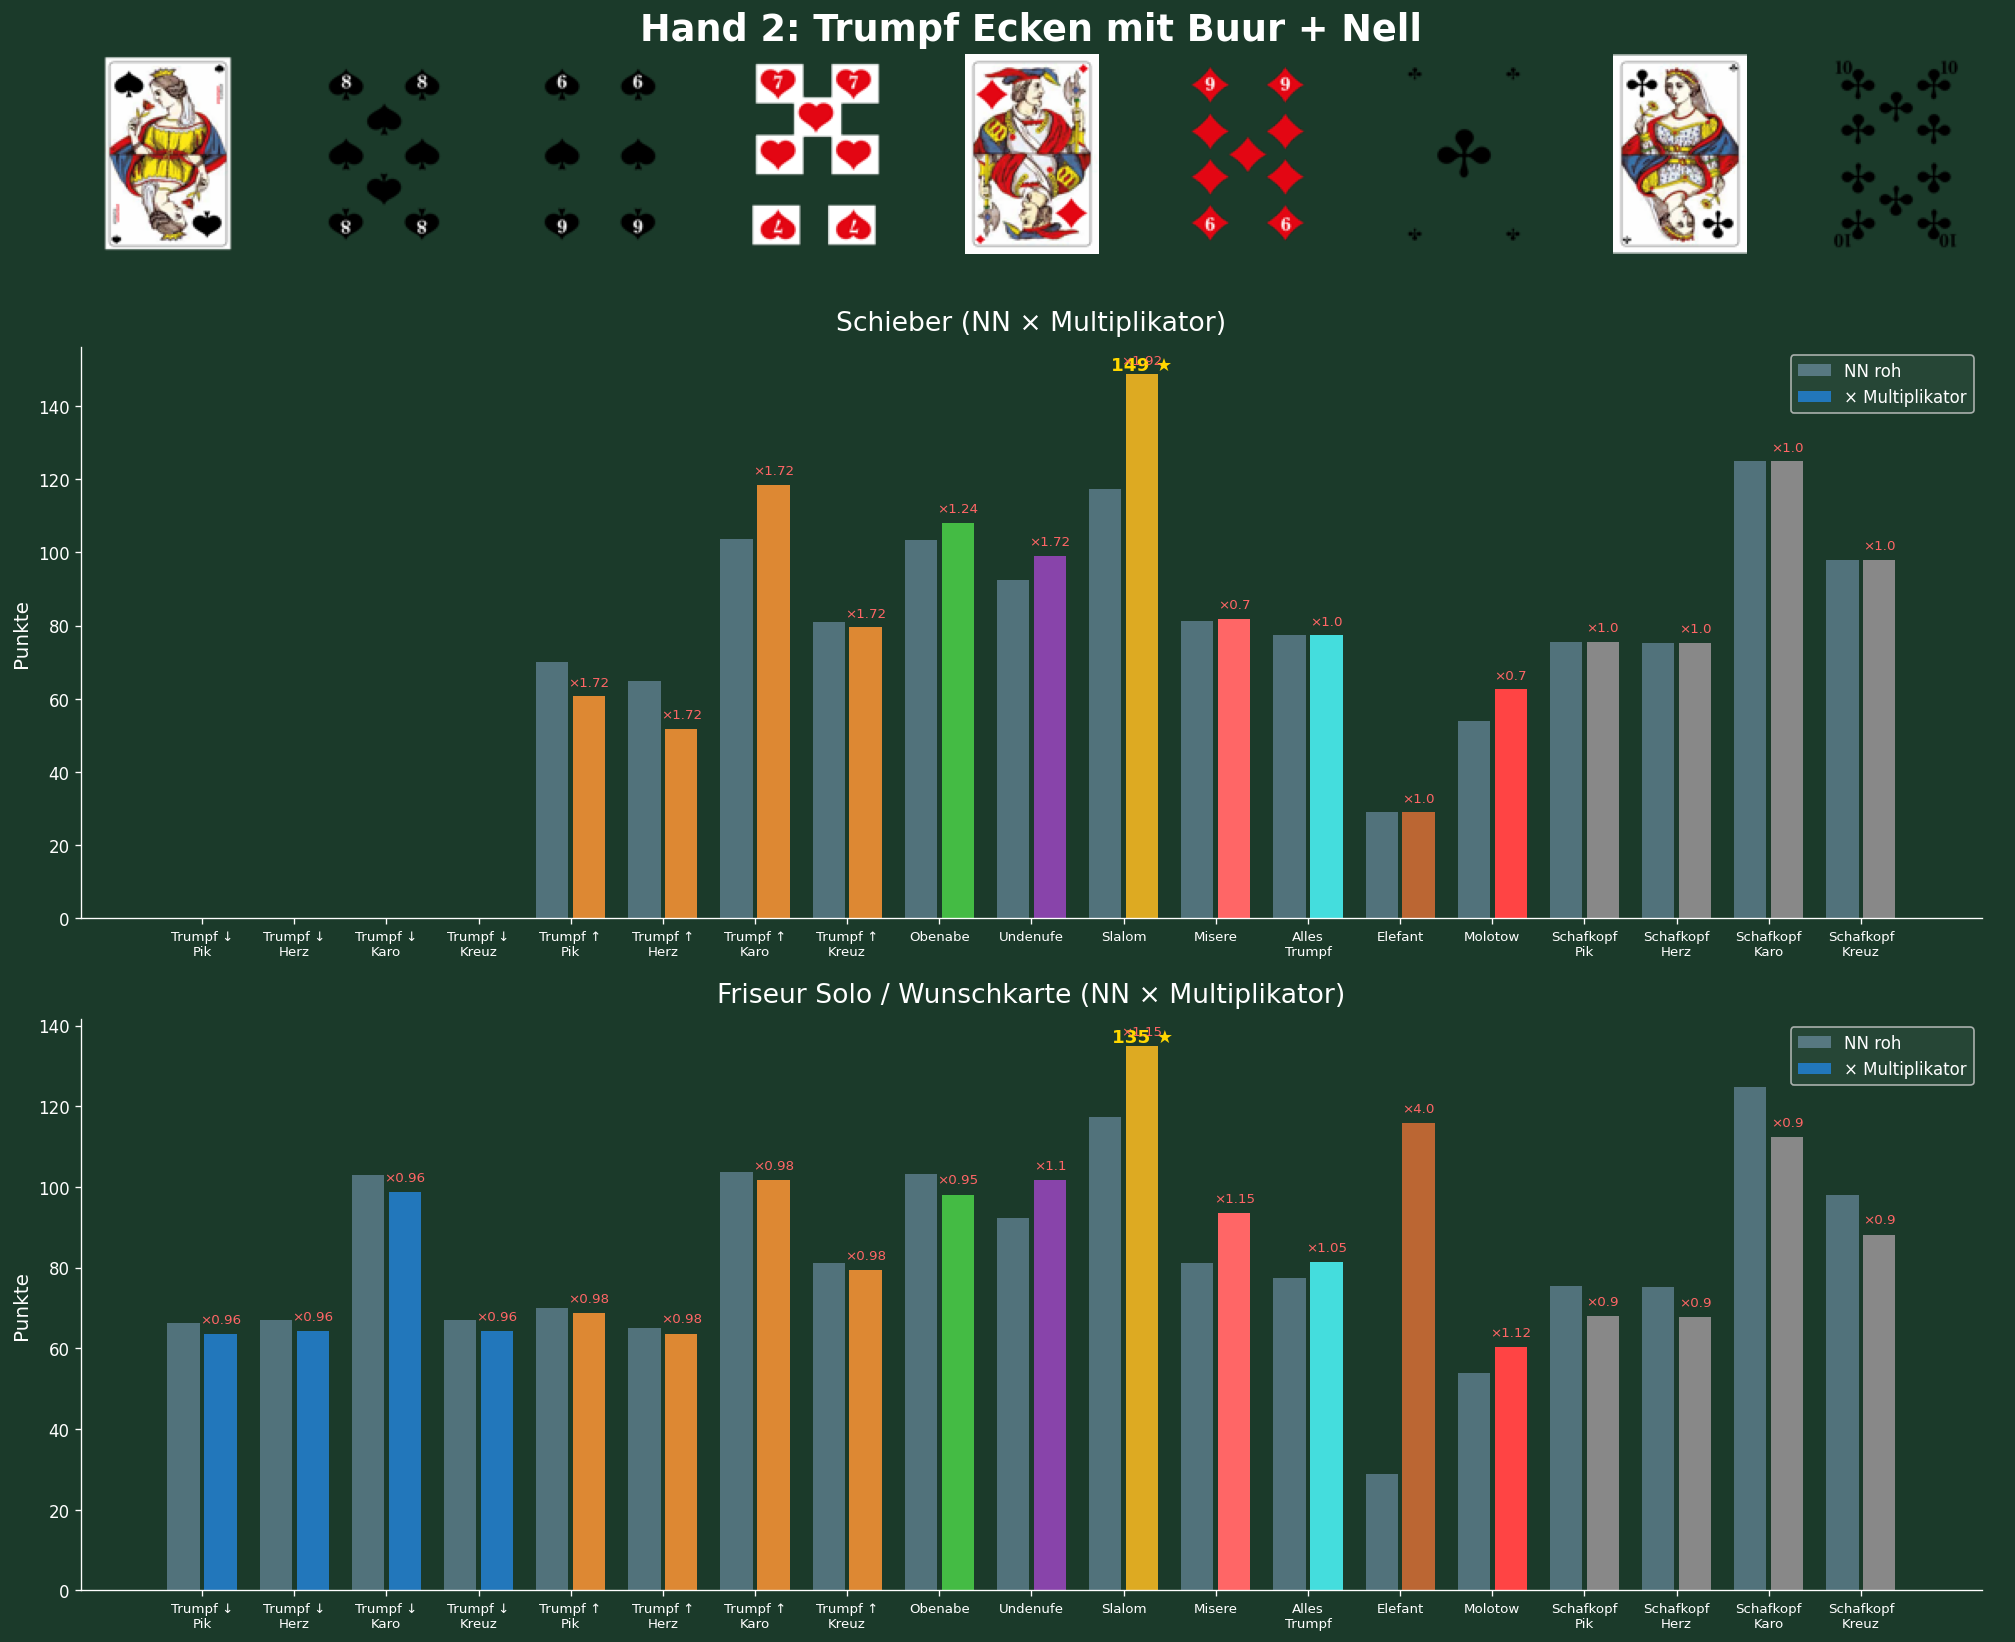
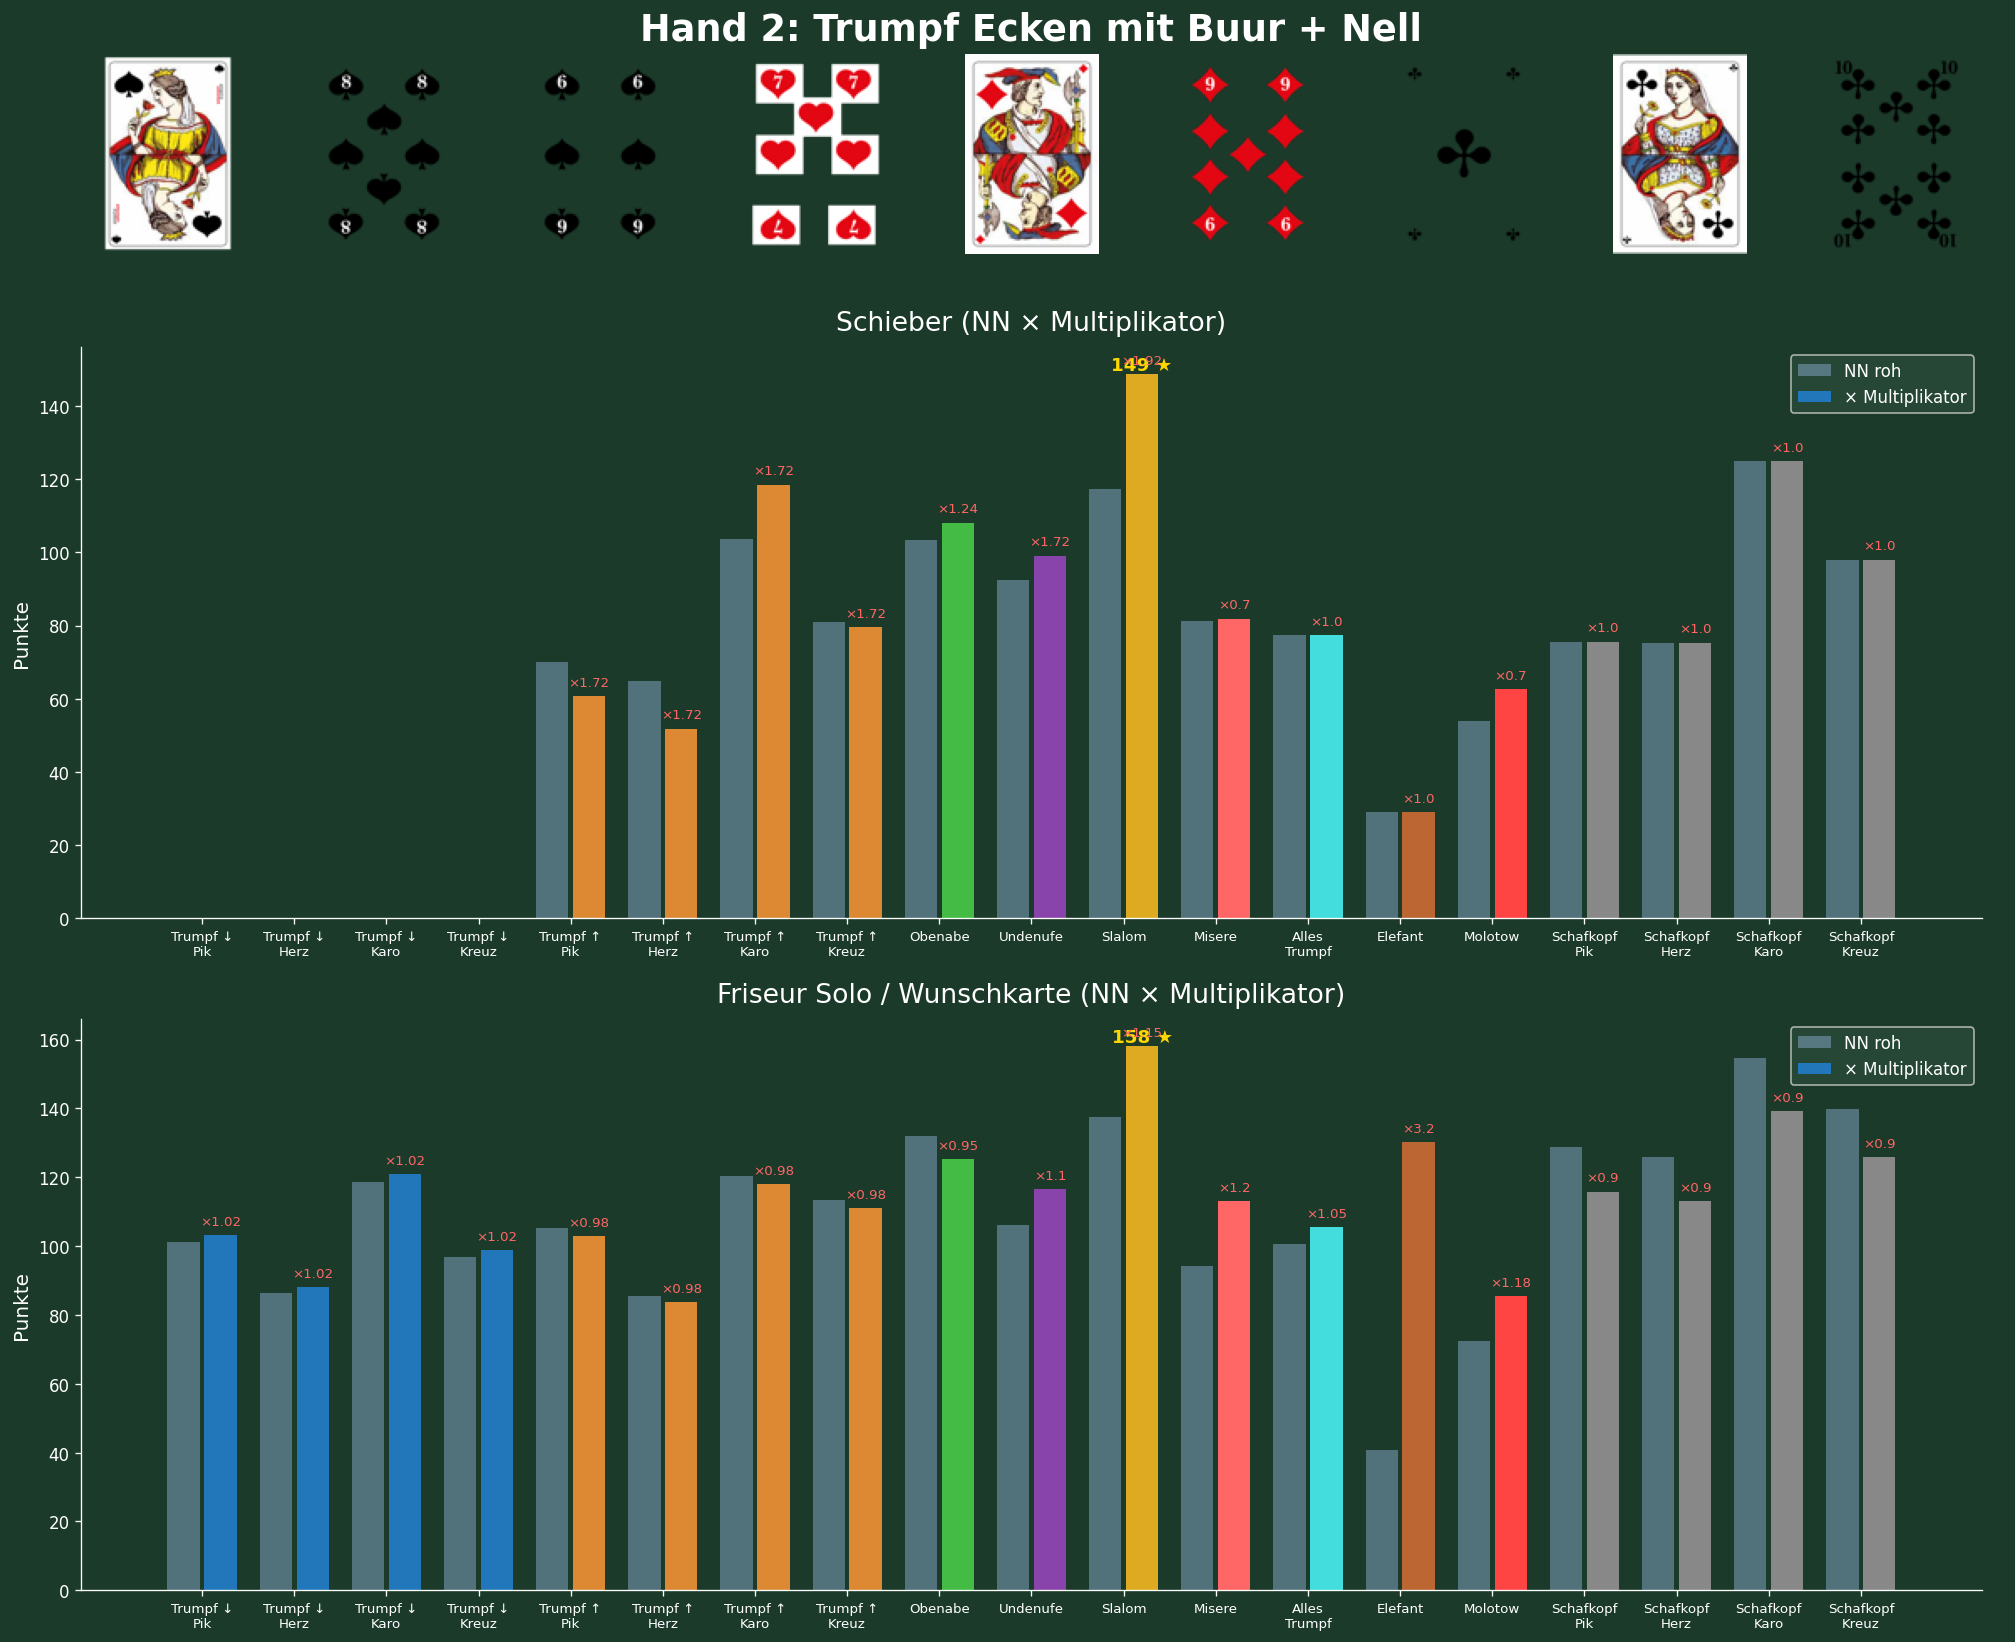
Charts: Friseur Solo mit Wunschkarte-Bewertung, Mults aktualisiert
- Friseur Solo bewertet jetzt jeden Modus MIT optimaler Wunschkarte
  (Hand+Wish=10, schwächste weg=9, NN bewerten)
- Multiplikatoren auf aktuelle nn_tuning.dart Werte aktualisiert
- Tutti statt Alles Trumpf in Labels

diff --git a/scripts/hand_charts.py b/scripts/hand_charts.py
@@ -83,10 +83,10 @@ SCHIEBER_MULTS = [
 ]
 
 FRISEUR_MULTS = [
-    0.96, 0.96, 0.96, 0.96,
+    1.02, 1.02, 1.02, 1.02,
     0.98, 0.98, 0.98, 0.98,
-    0.95, 1.10, 1.15, 1.15,
-    1.05, 4.0, 1.12,
+    0.95, 1.10, 1.15, 1.20,
+    1.05, 3.20, 1.18,
     0.90, 0.90, 0.90, 0.90,
 ]
 
@@ -211,7 +211,26 @@ def create_chart(hand_info, hand_idx, nn):
     ax2.set_facecolor('#1B3A2A')
     ax2.set_title('Friseur Solo / Wunschkarte (NN × Multiplikator)', color='white', fontsize=16, pad=10)
 
-    friseur_raw = [max(0, raw_scores[i]) * 157 if i < len(raw_scores) else 0 for i in range(19)]
+    # Friseur Solo: für jeden Modus die beste Wunschkarte finden
+    # Pool = Hand(9) + Wunschkarte(1) → schwächste entfernen → NN mit 9 bewerten
+    hand_set = set(indices)
+    available_cards = [c for c in range(36) if c not in hand_set]
+
+    friseur_raw = []
+    for mode_idx in range(19):
+        best_score = 0
+        for wish in available_cards:
+            pool = list(indices) + [wish]
+            # Jede der 10 Karten als "entfernt" testen → beste 9
+            for drop in range(10):
+                sub = pool[:drop] + pool[drop+1:]
+                scores = nn_predict(nn, sub)
+                if mode_idx < len(scores):
+                    s = max(0, scores[mode_idx]) * 157
+                    if s > best_score:
+                        best_score = s
+        friseur_raw.append(best_score)
+
     friseur_adj = [friseur_raw[i] * FRISEUR_MULTS[i] for i in range(19)]
 
     bars_raw2 = ax2.bar(x - 0.2, friseur_raw[:19], 0.35, color=BAR_COLORS_RAW, alpha=0.5, label='NN roh')
